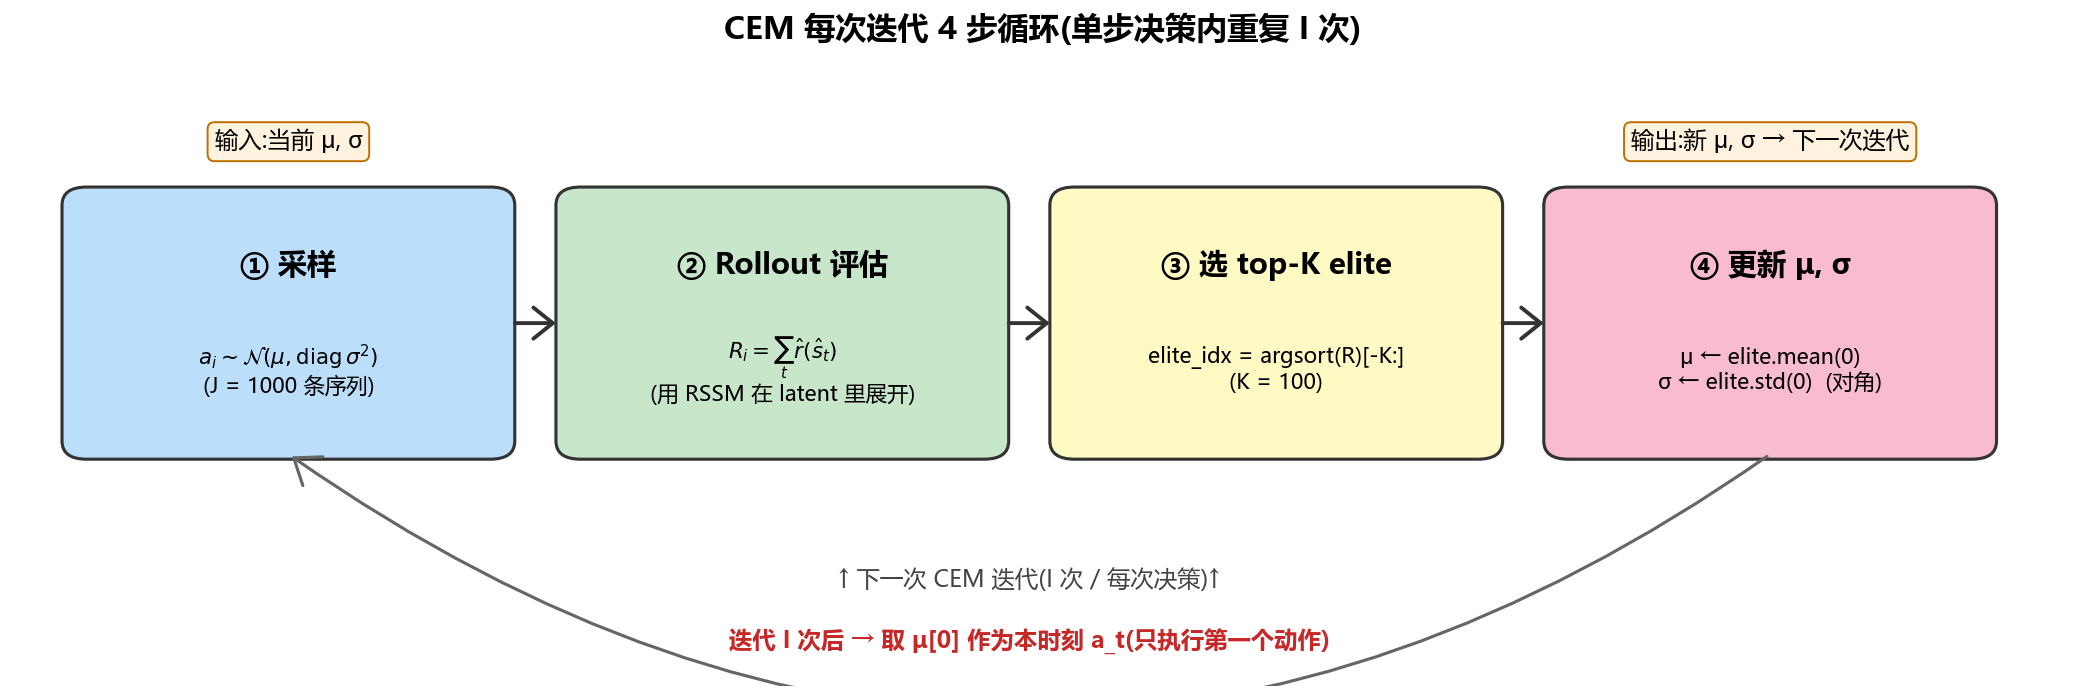
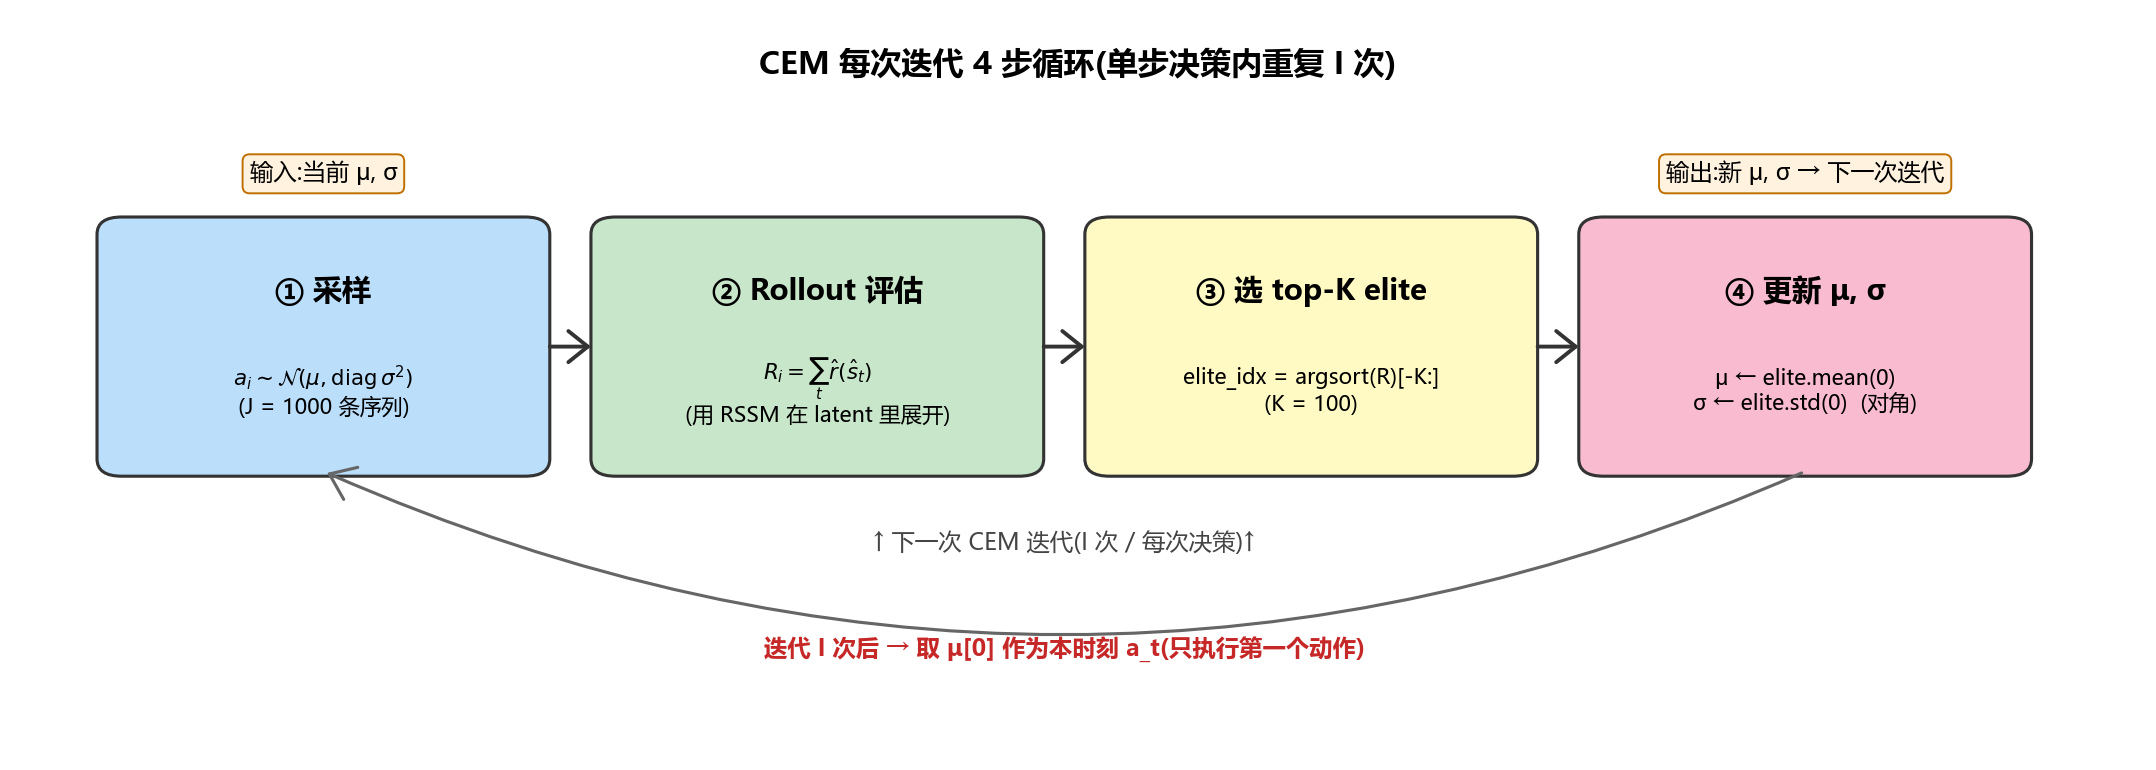
docs: extend canvas + pad_inches so CEM loop back-edge isn't cropped

diff --git a/asset/cem/gen_cem_figs.py b/asset/cem/gen_cem_figs.py
@@ -186,11 +186,11 @@ def figure_4step_loop(out_path: str):
     end = (boxes[0]["x"] + W / 2, 1.3)
     ax.add_patch(FancyArrowPatch(
         start, end,
-        connectionstyle="arc3,rad=-0.35",
+        connectionstyle="arc3,rad=-0.22",
         arrowstyle="->,head_length=12,head_width=9",
         color="#666", linewidth=1.6,
     ))
-    ax.text((start[0] + end[0]) / 2, 0.05,
+    ax.text((start[0] + end[0]) / 2, 0.55,
             "↑ 下一次 CEM 迭代(I 次 / 每次决策)↑",
             ha="center", va="center", fontsize=12, color="#444", style="italic")
 
@@ -200,10 +200,11 @@ def figure_4step_loop(out_path: str):
             ha="center", va="center", fontsize=12, color="#c62828",
             fontweight="bold")
 
-    ax.set_ylim(-1.0, 5)
+    ax.set_ylim(-1.3, 5)
 
     fig.tight_layout()
-    fig.savefig(out_path, dpi=140, bbox_inches="tight", facecolor="white")
+    fig.savefig(out_path, dpi=140, bbox_inches="tight", pad_inches=0.35,
+                facecolor="white")
     plt.close(fig)
     print(f"wrote {out_path}")
 
